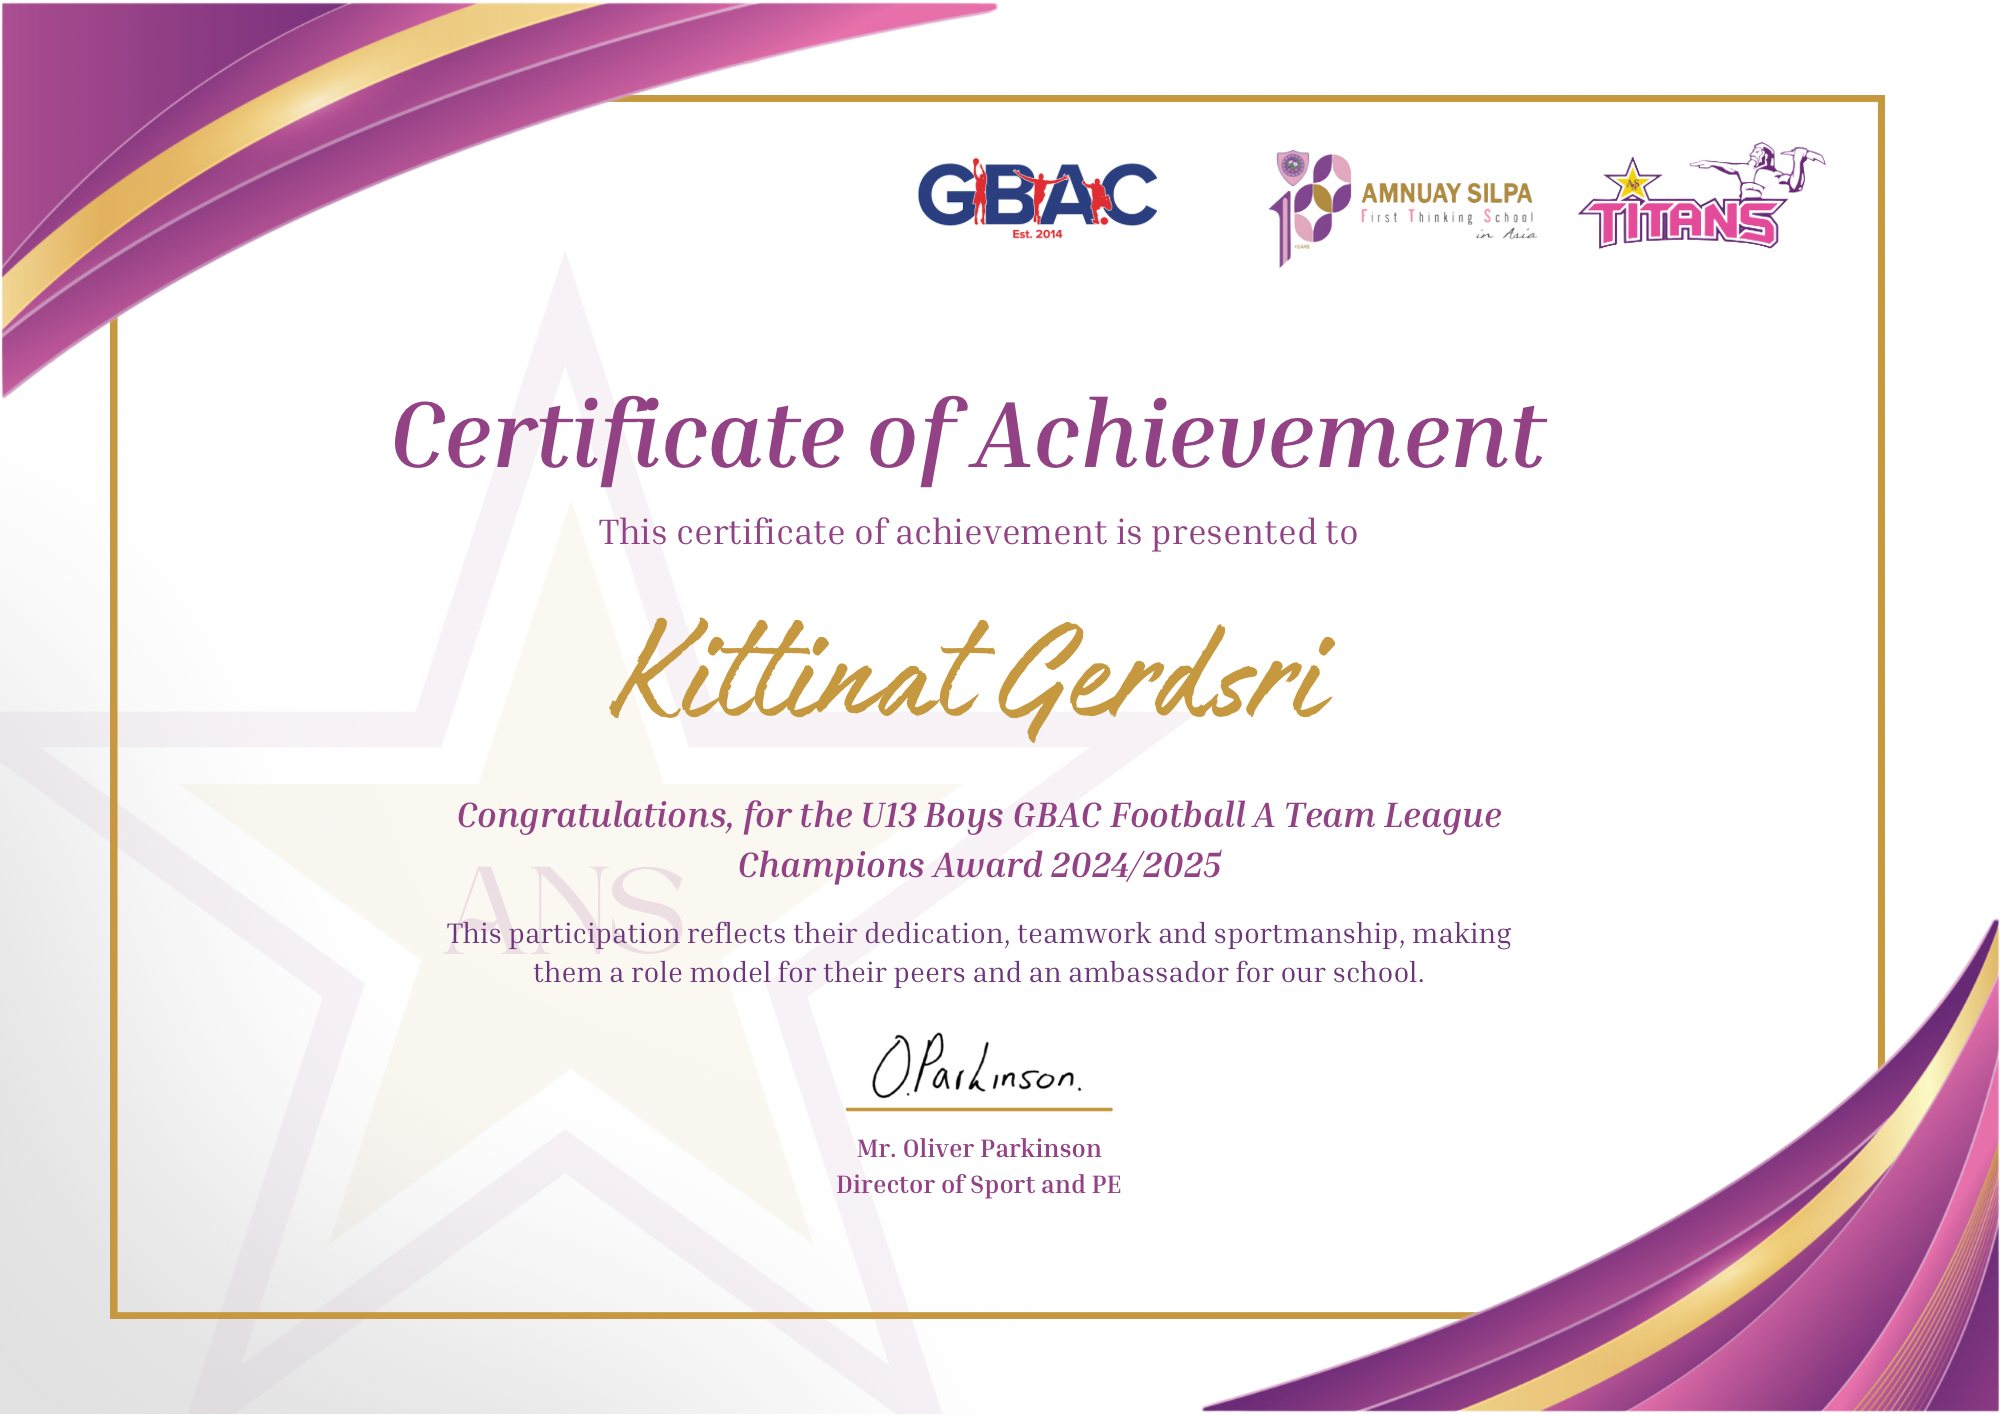
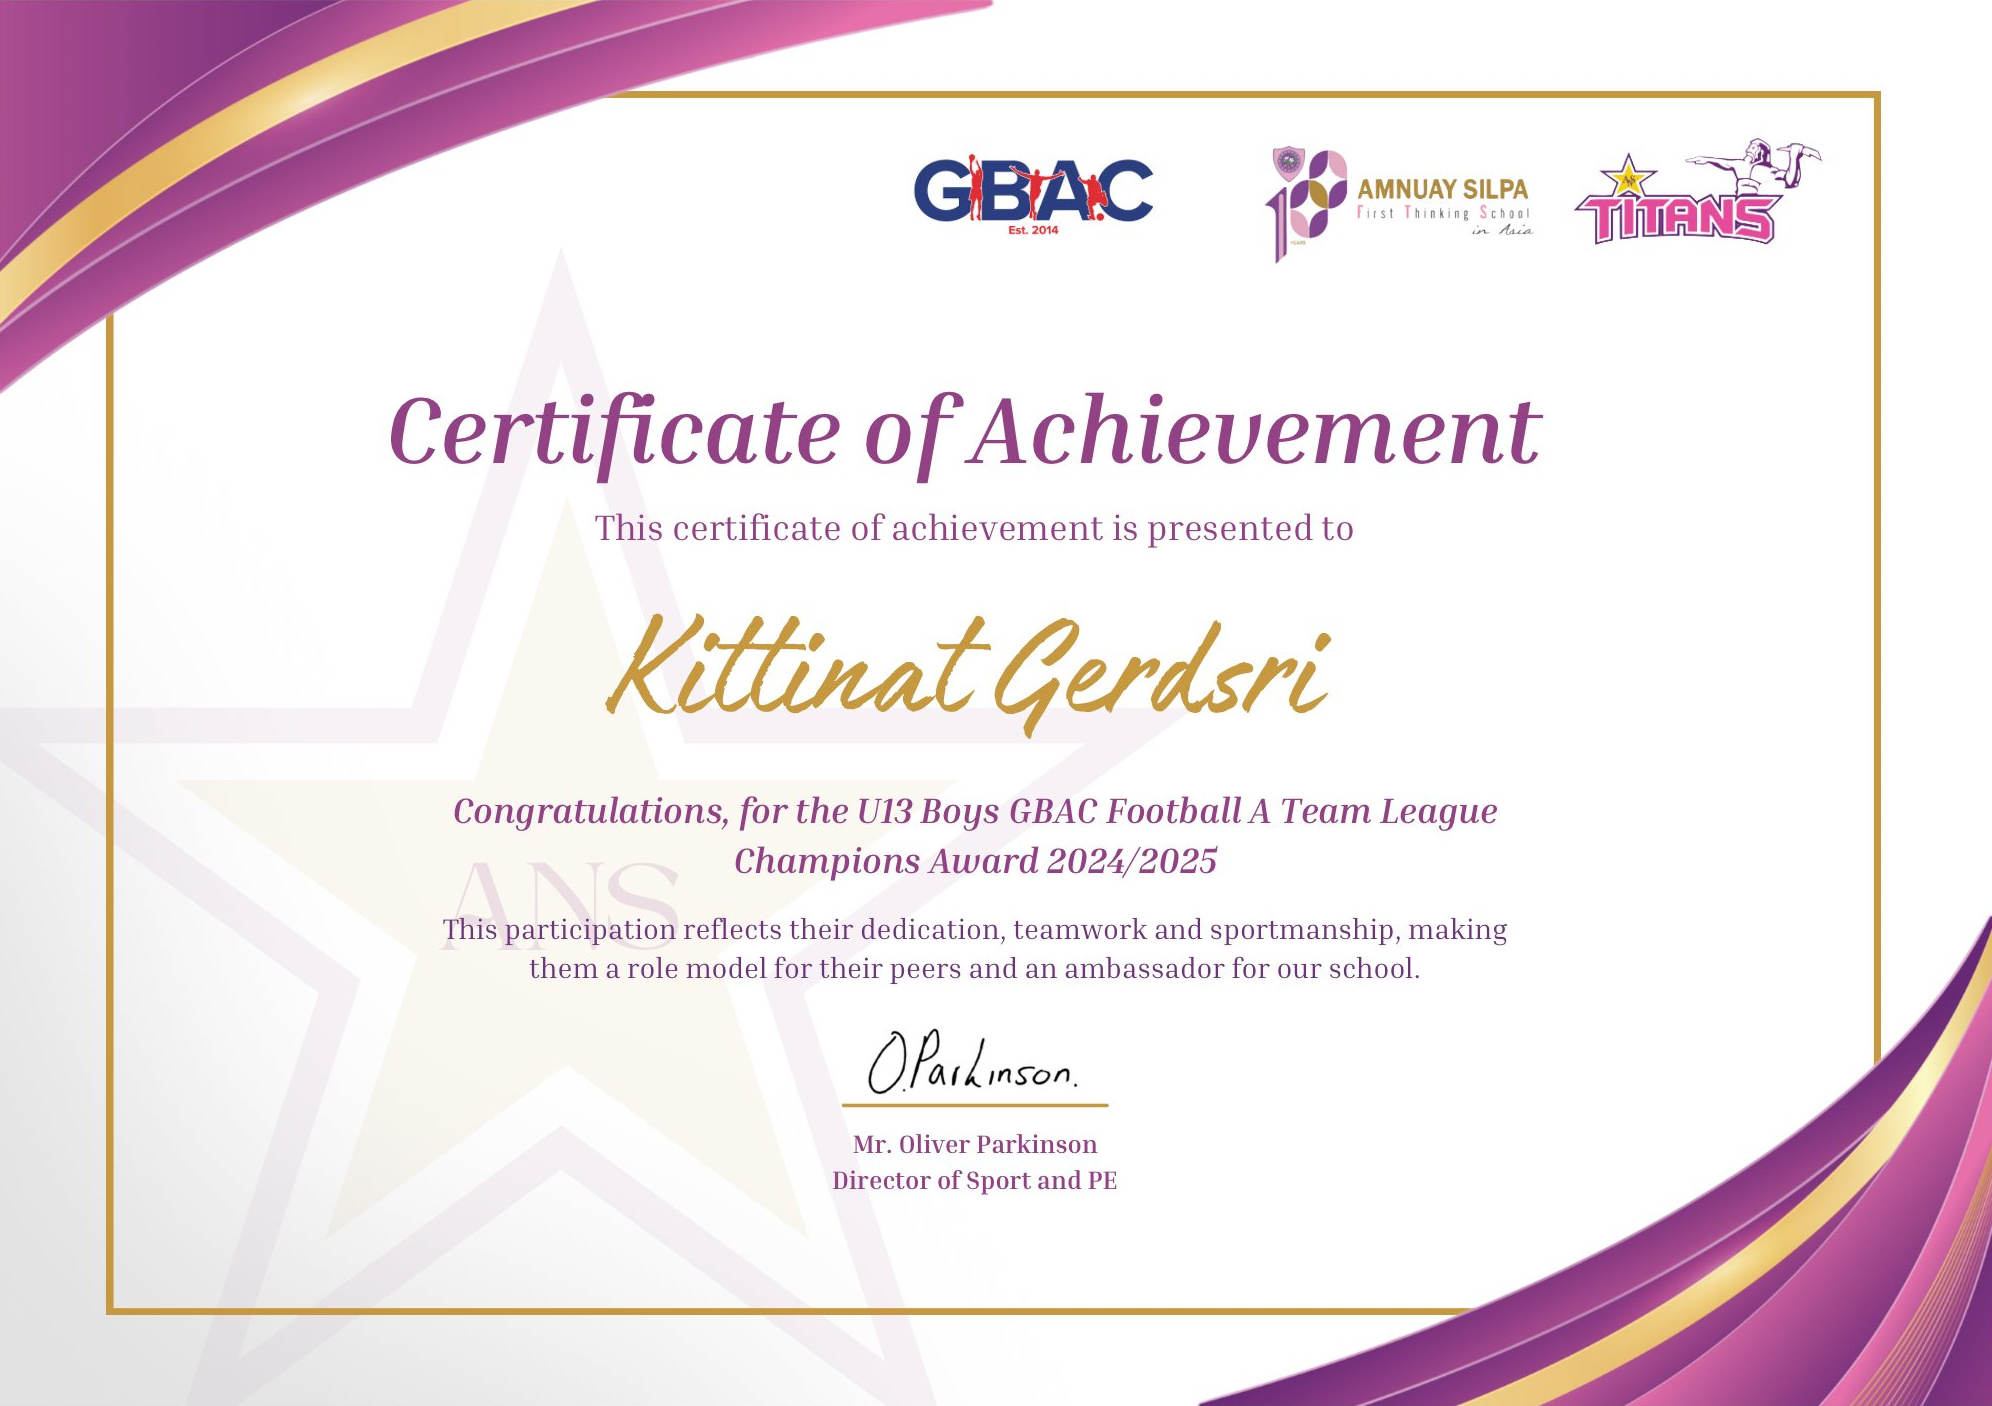
Crop baked-in white edge strips off the U13 GBAC League certificate
Removed 4px from each side (the original had pure-white rows/columns at
the borders where the corner swirls should reach the edge).

diff --git a/sports.html b/sports.html
@@ -16,7 +16,7 @@
 <meta name="apple-mobile-web-app-title" content="Kittinat Gerdsri">
 <link rel="manifest" href="manifest.json">
 <meta name="theme-color" content="#eef1f5">
-<link rel="stylesheet" href="assets/css/style.css?v=1791968267">
+<link rel="stylesheet" href="assets/css/style.css?v=1791968357">
 </head>
 <body class="page-core-discipline">
 
@@ -160,7 +160,7 @@
             </div>
             <div class="locker-face locker-back">
               <figure data-date="2025-05-01" data-year="2025" data-award="champion" data-caption="GBAC League, U13, Boys, Football">
-                <img src="assets/img/pages/sports/awards-04-gbac-football-a-league.jpg" alt="Certificate — GBAC League, U13, Boys, Football, Champions" data-full="assets/img/pages/sports/awards-04-gbac-football-a-league.jpg">
+                <img src="assets/img/pages/sports/awards-04-gbac-football-a-league.jpg?v=1791968357" alt="Certificate — GBAC League, U13, Boys, Football, Champions" data-full="assets/img/pages/sports/awards-04-gbac-football-a-league.jpg?v=1791968357">
               </figure>
             </div>
           </div>
@@ -273,7 +273,7 @@
 </div>
 
 <script>document.getElementById('year').textContent = new Date().getFullYear();</script>
-  <script src="assets/js/translations.js?v=1791968267"></script>
-  <script src="assets/js/main.js?v=1791968267"></script>
+  <script src="assets/js/translations.js?v=1791968357"></script>
+  <script src="assets/js/main.js?v=1791968357"></script>
 </body>
 </html>

diff --git a/core-discipline.html b/core-discipline.html
@@ -16,7 +16,7 @@
 <meta name="apple-mobile-web-app-title" content="Kittinat Gerdsri">
 <link rel="manifest" href="manifest.json">
 <meta name="theme-color" content="#eef1f5">
-<link rel="stylesheet" href="assets/css/style.css?v=1791968267">
+<link rel="stylesheet" href="assets/css/style.css?v=1791968357">
 </head>
 <body class="page-core-discipline">
 
@@ -360,7 +360,7 @@
 </div>
 
 <script>document.getElementById('year').textContent = new Date().getFullYear();</script>
-  <script src="assets/js/translations.js?v=1791968267"></script>
-  <script src="assets/js/main.js?v=1791968267"></script>
+  <script src="assets/js/translations.js?v=1791968357"></script>
+  <script src="assets/js/main.js?v=1791968357"></script>
 </body>
 </html>

diff --git a/graphics-drawing.html b/graphics-drawing.html
@@ -18,7 +18,7 @@
 <meta name="apple-mobile-web-app-title" content="Kittinat Gerdsri">
 <link rel="manifest" href="manifest.json">
 <meta name="theme-color" content="#eef1f5">
-  <link rel="stylesheet" href="assets/css/style.css?v=1791968267">
+  <link rel="stylesheet" href="assets/css/style.css?v=1791968357">
 </head>
 
 <body>
@@ -261,8 +261,8 @@
   </div>
 
   <script>document.getElementById('year').textContent = new Date().getFullYear();</script>
-  <script src="assets/js/translations.js?v=1791968267"></script>
-  <script src="assets/js/main.js?v=1791968267"></script>
+  <script src="assets/js/translations.js?v=1791968357"></script>
+  <script src="assets/js/main.js?v=1791968357"></script>
 </body>
 
 </html>

diff --git a/index.html b/index.html
@@ -16,7 +16,7 @@
 <meta name="apple-mobile-web-app-title" content="Kittinat Gerdsri">
 <link rel="manifest" href="manifest.json">
 <meta name="theme-color" content="#eef1f5">
-<link rel="stylesheet" href="assets/css/style.css?v=1791968267">
+<link rel="stylesheet" href="assets/css/style.css?v=1791968357">
 </head>
 <body>
 
@@ -242,7 +242,7 @@
   </div>
 
 <script>document.getElementById('year').textContent = new Date().getFullYear();</script>
-  <script src="assets/js/translations.js?v=1791968267"></script>
-  <script src="assets/js/main.js?v=1791968267"></script>
+  <script src="assets/js/translations.js?v=1791968357"></script>
+  <script src="assets/js/main.js?v=1791968357"></script>
 </body>
 </html>

diff --git a/privacy.html b/privacy.html
@@ -16,7 +16,7 @@
 <meta name="apple-mobile-web-app-title" content="Kittinat Gerdsri">
 <link rel="manifest" href="manifest.json">
 <meta name="theme-color" content="#eef1f5">
-<link rel="stylesheet" href="assets/css/style.css?v=1791968267">
+<link rel="stylesheet" href="assets/css/style.css?v=1791968357">
 </head>
 <body>
 
@@ -155,7 +155,7 @@
   </div>
 
 <script>document.getElementById('year').textContent = new Date().getFullYear();</script>
-  <script src="assets/js/translations.js?v=1791968267"></script>
-  <script src="assets/js/main.js?v=1791968267"></script>
+  <script src="assets/js/translations.js?v=1791968357"></script>
+  <script src="assets/js/main.js?v=1791968357"></script>
 </body>
 </html>

diff --git a/terms.html b/terms.html
@@ -16,7 +16,7 @@
 <meta name="apple-mobile-web-app-title" content="Kittinat Gerdsri">
 <link rel="manifest" href="manifest.json">
 <meta name="theme-color" content="#eef1f5">
-<link rel="stylesheet" href="assets/css/style.css?v=1791968267">
+<link rel="stylesheet" href="assets/css/style.css?v=1791968357">
 </head>
 <body>
 
@@ -148,7 +148,7 @@
   </div>
 
 <script>document.getElementById('year').textContent = new Date().getFullYear();</script>
-  <script src="assets/js/translations.js?v=1791968267"></script>
-  <script src="assets/js/main.js?v=1791968267"></script>
+  <script src="assets/js/translations.js?v=1791968357"></script>
+  <script src="assets/js/main.js?v=1791968357"></script>
 </body>
 </html>

diff --git a/3d-design-animation.html b/3d-design-animation.html
@@ -16,7 +16,7 @@
 <meta name="apple-mobile-web-app-title" content="Kittinat Gerdsri">
 <link rel="manifest" href="manifest.json">
 <meta name="theme-color" content="#eef1f5">
-<link rel="stylesheet" href="assets/css/style.css?v=1791968267">
+<link rel="stylesheet" href="assets/css/style.css?v=1791968357">
 </head>
 <body>
 
@@ -168,7 +168,7 @@
 </div>
 
 <script>document.getElementById('year').textContent = new Date().getFullYear();</script>
-  <script src="assets/js/translations.js?v=1791968267"></script>
-  <script src="assets/js/main.js?v=1791968267"></script>
+  <script src="assets/js/translations.js?v=1791968357"></script>
+  <script src="assets/js/main.js?v=1791968357"></script>
 </body>
 </html>

diff --git a/ai-coding.html b/ai-coding.html
@@ -16,7 +16,7 @@
 <meta name="apple-mobile-web-app-title" content="Kittinat Gerdsri">
 <link rel="manifest" href="manifest.json">
 <meta name="theme-color" content="#eef1f5">
-<link rel="stylesheet" href="assets/css/style.css?v=1791968267">
+<link rel="stylesheet" href="assets/css/style.css?v=1791968357">
 </head>
 <body>
 
@@ -261,7 +261,7 @@
 </div>
 
 <script>document.getElementById('year').textContent = new Date().getFullYear();</script>
-  <script src="assets/js/translations.js?v=1791968267"></script>
-  <script src="assets/js/main.js?v=1791968267"></script>
+  <script src="assets/js/translations.js?v=1791968357"></script>
+  <script src="assets/js/main.js?v=1791968357"></script>
 </body>
 </html>

diff --git a/f1-animation-v1.html b/f1-animation-v1.html
@@ -16,7 +16,7 @@
 <meta name="apple-mobile-web-app-title" content="Kittinat Gerdsri">
 <link rel="manifest" href="manifest.json">
 <meta name="theme-color" content="#eef1f5">
-<link rel="stylesheet" href="assets/css/style.css?v=1791968267">
+<link rel="stylesheet" href="assets/css/style.css?v=1791968357">
 </head>
 <body>
 
@@ -177,7 +177,7 @@
 </div>
 
 <script>document.getElementById('year').textContent = new Date().getFullYear();</script>
-  <script src="assets/js/translations.js?v=1791968267"></script>
-  <script src="assets/js/main.js?v=1791968267"></script>
+  <script src="assets/js/translations.js?v=1791968357"></script>
+  <script src="assets/js/main.js?v=1791968357"></script>
 </body>
 </html>

diff --git a/f1-animation.html b/f1-animation.html
@@ -16,7 +16,7 @@
 <meta name="apple-mobile-web-app-title" content="Kittinat Gerdsri">
 <link rel="manifest" href="manifest.json">
 <meta name="theme-color" content="#eef1f5">
-<link rel="stylesheet" href="assets/css/style.css?v=1791968267">
+<link rel="stylesheet" href="assets/css/style.css?v=1791968357">
 </head>
 <body>
 
@@ -257,7 +257,7 @@
 </div>
 
 <script>document.getElementById('year').textContent = new Date().getFullYear();</script>
-  <script src="assets/js/translations.js?v=1791968267"></script>
-  <script src="assets/js/main.js?v=1791968267"></script>
+  <script src="assets/js/translations.js?v=1791968357"></script>
+  <script src="assets/js/main.js?v=1791968357"></script>
 </body>
 </html>

diff --git a/gofitr.html b/gofitr.html
@@ -16,7 +16,7 @@
 <meta name="apple-mobile-web-app-title" content="Kittinat Gerdsri">
 <link rel="manifest" href="manifest.json">
 <meta name="theme-color" content="#eef1f5">
-<link rel="stylesheet" href="assets/css/style.css?v=1791968267">
+<link rel="stylesheet" href="assets/css/style.css?v=1791968357">
 </head>
 <body>
 
@@ -203,7 +203,7 @@
 </div>
 
 <script>document.getElementById('year').textContent = new Date().getFullYear();</script>
-  <script src="assets/js/translations.js?v=1791968267"></script>
-  <script src="assets/js/main.js?v=1791968267"></script>
+  <script src="assets/js/translations.js?v=1791968357"></script>
+  <script src="assets/js/main.js?v=1791968357"></script>
 </body>
 </html>

diff --git a/magnolia.html b/magnolia.html
@@ -16,7 +16,7 @@
 <meta name="apple-mobile-web-app-title" content="Kittinat Gerdsri">
 <link rel="manifest" href="manifest.json">
 <meta name="theme-color" content="#eef1f5">
-<link rel="stylesheet" href="assets/css/style.css?v=1791968267">
+<link rel="stylesheet" href="assets/css/style.css?v=1791968357">
 </head>
 <body>
 
@@ -217,7 +217,7 @@
 </div>
 
 <script>document.getElementById('year').textContent = new Date().getFullYear();</script>
-  <script src="assets/js/translations.js?v=1791968267"></script>
-  <script src="assets/js/main.js?v=1791968267"></script>
+  <script src="assets/js/translations.js?v=1791968357"></script>
+  <script src="assets/js/main.js?v=1791968357"></script>
 </body>
 </html>
